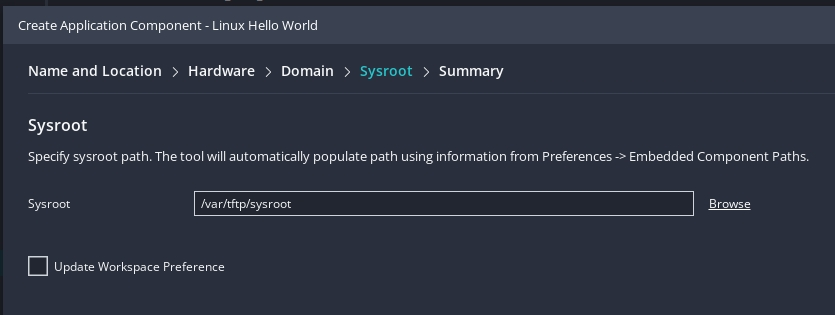
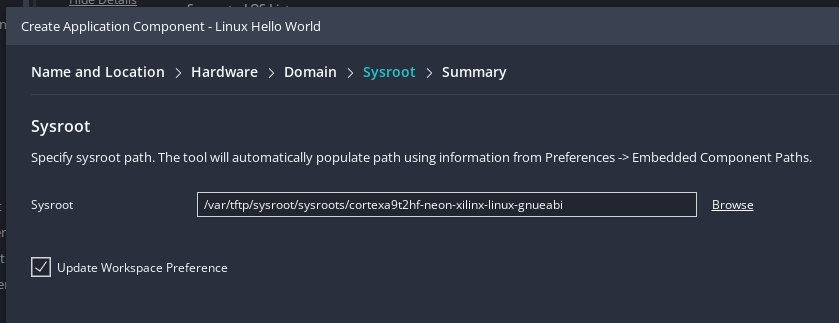
bup

diff --git a/site/projects/linux/hellow_world/Code.md b/site/projects/linux/hellow_world/Code.md
@@ -26,6 +26,8 @@ Also, no need for "boot artifacts":
 
 ![](images/platform.parameters.jpg)
 
+### FIXME: Prebuilt fsbl ?: No
+
 * And build [the new platform\]..
 
 ---
@@ -33,9 +35,22 @@ Also, no need for "boot artifacts":
 ## Application
 
 Create a new application from templates(Linux Hellow World) (under `File/New Component/From Examples`).  
-Set the `sysroot` directory, previously generated through `petalinux`(`--sdk`):
+Set the `sysroot` directory, previously generated through `petalinux`(`--sdk`), to the (inner) `sysroot/sysroots/*-gnueabi` folder:
 
 ![](images/sysroot.jpg)
+
+And build.. Note the generated `.elf` file.
+
+---
+
+## Intrermission: Info(Corrections)
+
+As per the [tutorial]:
+
+* `boot.scr` is the script that U-Boot reads during boot time to load the kernel and rootfs
+* `image.ub` contains kernel image, device tree and rootfs
+
+Thus, up until now, the `ext4` (where the `rootfs.tar.gz` was extracted) was not [actually being\] used 🙊!
 
 ---
 
@@ -48,3 +63,8 @@ Set the `sysroot` directory, previously generated through `petalinux`(`--sdk`):
 ## Referencies
 
 * [Building and Debugging Linux Applications for Zynq-7000 SoCs](https://xilinx.github.io/Embedded-Design-Tutorials/docs/2023.1/build/html/docs/Introduction/Zynq7000-EDT/4-linux-for-zynq.html) (*site*)
+* https://support.xilinx.com/s/article/1141772
+
+---
+
+[tutorial]: https://xilinx.github.io/Embedded-Design-Tutorials/docs/2023.1/build/html/docs/Introduction/Zynq7000-EDT/4-linux-for-zynq.html "Zynq-7000 Embedded Design Tutorial"

diff --git a/site/projects/linux/preliminary/README.md b/site/projects/linux/preliminary/README.md
@@ -100,7 +100,7 @@ umount -Rl "$DEST"/*
 ---
 
 #### Extra 🏛(Project configuration):
-In order to save download time, one can download the caches used. There are two of them, the "download" and the "sstate" one. Namely, under the [PetaLinux Tools sstate-cache Artifacts][petalinux], the following can be downloaded:
+In order to save **download time**, one can download the caches used. There are two of them, the "download" and the "sstate" one. Namely, under the [PetaLinux Tools sstate-cache Artifacts][petalinux], the following can be downloaded:
 
 * "arm sstate-cache", and
 * "Downloads"
@@ -128,7 +128,7 @@ Note: Absolute paths may be preferable.
 
 * Build the project, using:  
   `$ petalinux-build`
-    * (Saving the `build/downloads` folder, might come in handy, when clearing this project, or opening a new one).
+    * (Note: Save the `build/downloads` folder [after build\], in order to gain time when clearing a project, or opening a new one).
 * Prepare the boot images, including the bitstream, using:  
   `$ petalinux-package --boot --u-boot --fpga images/linux/system.bit`
 
